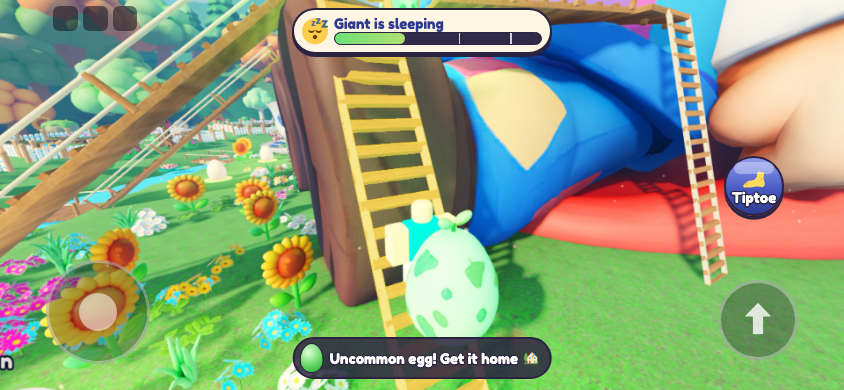
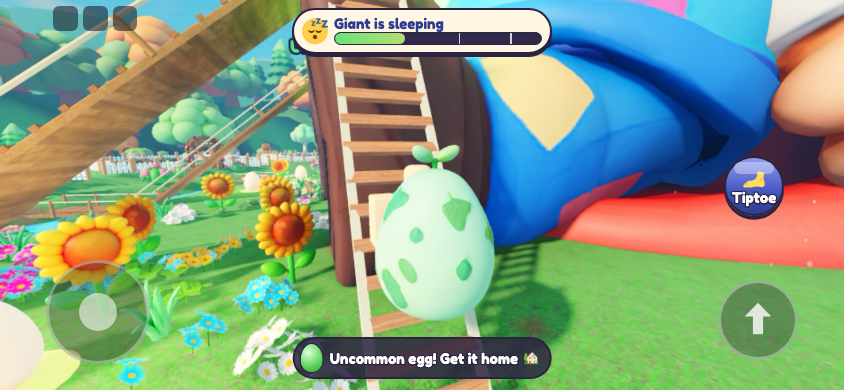
Drop ladder glow and flash from the looks
Adam dropped both; mockups retaken on the plain-wood ladder. Also records the designer's Task 4a look check.

diff --git a/docs/design/v2/mockups/wake-hud.html b/docs/design/v2/mockups/wake-hud.html
@@ -202,7 +202,7 @@ if (state === "bonk") { meter("AWAKE! Back to sleep in 0:07"); $("tip").classLis
 if (state === "garden") { meter("AWAKE! Back to sleep in 0:06"); }
 // bonked on a ladder with no egg: they hold on with the star ring. Nothing new on screen; the tip stays.
 if (state === "ladder") { meter("AWAKE! Back to sleep in 0:09"); $("tip").classList.remove("hide"); }
-// a carrier climbing down the left boot ladder with an Uncommon egg, a red circle below and the ladder glowing red
+// a carrier climbing down the left boot ladder with an Uncommon egg, a red circle below (no ladder glow: dropped 2026-11-04)
 if (state === "slam") {
   meter("AWAKE! Back to sleep in 0:12"); rh.classList.remove("hide"); $("carry").classList.remove("hide");
   document.querySelector("#carry .egg").style.background = "radial-gradient(circle at 35% 30%, #DFFFD8, #5BD45B 60%, #2E9E3A)";

diff --git a/docs/design/v2/mockups/wayup-hud.html b/docs/design/v2/mockups/wayup-hud.html
@@ -135,7 +135,7 @@ if (state === "climb") {
   $("ctext").textContent = "Uncommon egg! Get it home";
   document.querySelector("#carry .egg").style.background = "radial-gradient(circle at 35% 30%, #DFFFD8, #5BD45B 60%, #2E9E3A)";
 }
-// he is awake, a slam targets the climber: red circle below, the ladder glows red (V2 "Slam warning on a ladder")
+// he is awake, a slam targets the climber: red circle below (the red ladder flash was dropped 2026-11-04)
 if (state === "slam") {
   meter(100, "AWAKE! Back to sleep in 0:12", "😠");
   $("meter").style.background = "#FFE3E6"; $("mlabel").style.color = "#C4142A";

diff --git a/docs/design/v2/build-check.md b/docs/design/v2/build-check.md
@@ -452,3 +452,47 @@ The side ladders were dropped, so gardens 1 and 2 now use the left boot ladder. 
 | `mockups/wayup-gate2-desktop.png`, `mockups/wayup-gate2-phone.png` | Garden 2 at first spawn: the left boot ladder above the sock, its top half clear | Built world only | Easy (nothing new) | Ladder clearly on screen; the sock hides its foot |
 
 Not re-scored side by side: same cameras, world and light as the earlier `wayup-side` check (all 4s), with a smaller ladder than the side ladder had.
+
+## Ladder slam without the red flash (2026-11-04)
+
+Adam dropped the red ladder flash (and the yellow ladder glow before it). `view-ladder-slam.png`, `view-phone-ladder-slam.png`, `ladder-slam-desktop.png` and `ladder-slam-phone.png` were retaken from the same spot (avatar from `ArtLibrary.MockupAvatars.Mockup_LadderSlam`, feet about 20.5 studs up the left boot ladder, camera 12.5 studs behind the head, 20° down; Studio field of view widened so the HTML crop shows Roblox's 70°). The ladder is now the built `World.WalkSurfaces.BootLadder_Left` (plain wood), the circle the same `Mockup_LadderSlam.Circle`, the screen layer `wake-hud.html?state=slam`. Everything was hidden again afterwards.
+
+| Image | Shows | Art used | Difficulty | World | Light | Life | Buttons | Phone | Below the top games? |
+|---|---|---|---|---|---|---|---|---|---|
+| `mockups/ladder-slam-desktop.png`, `mockups/ladder-slam-phone.png` (backgrounds `view-ladder-slam.png`, `view-phone-ladder-slam.png`) | He is awake and a slam targets a carrier climbing down the left boot ladder with an Uncommon egg. Plain wooden ladder, the red circle on the grass below, red meter, "RUN HOME!", red edges, the tip "Dodge the red circles!" | Real world, plain avatar, the Uncommon egg, the built ladder, the game's circle | Easy (nothing new) | 4 | 4 | 4 | 4 | 4 | No on the scores. **Weak spot:** from the ladder the circle shows only as a red-and-gold sliver at the bottom edge, partly under the tip; on the phone even less. A climber sees the slam coming only from the wake cues (red edges, meter, "RUN HOME!") and, once built, the whoosh from below (plan 7 Task 10). Spec 3 section 5's trigger covers it if climbers keep getting caught |
+
+Compared with the same three wake-up shots as before: `steal-animal-egg/shot-06.jpg`, `break-and-steal-an-egg/shot-06.jpg`, `doors/shot-06.jpg`.
+
+## Boot ladder and climb without the yellow glow (2026-11-04)
+
+The yellow ladder glow was dropped (Adam, 2026-11-03). `wayup-boot-*` and `climb-*` (and their `view-*` backgrounds) were retaken in edit mode on the built plain-wood `World.WalkSurfaces.BootLadder_Left`. The side ladders are gone from the world, so they no longer show. `wayup-boot`: avatar on garden 3's `SpawnSpot`, facing his face, camera 12.5 studs behind the head, 15° down, with the rank-glow eggs of `Mockup_EggRanks`. `climb`: avatar halfway down the ladder (root part at (−45.1, 12, −64)) with the Uncommon egg, camera at (−56, 15, −68) looking at (−43, 12.5, −63). Screen layer `wayup-hud.html` (`state=boot`, `state=climb`). Everything was hidden again afterwards.
+
+| Image | Shows | Art used | Difficulty | World | Light | Life | Buttons | Phone | Below the top games? |
+|---|---|---|---|---|---|---|---|---|---|
+| `mockups/wayup-boot-desktop.png`, `mockups/wayup-boot-phone.png` | Garden 3 after the spawn camera eases back: the plain-wood boot ladder up the left boot, the thigh plank, the Common eggs in the meadow, the rank glow on the boot and belly eggs | Real world, plain avatar, egg models | Easy | 4 | 4 | 4 | 4 | 4 | No. The ladder is less bright than the yellow one was, but it stands out against the dark boot. Weak spot: the two near Common eggs' words touch ("Common Common"), as V1's labels would from this spot |
+| `mockups/climb-desktop.png`, `mockups/climb-phone.png` | Climbing down the left boot ladder with the Uncommon egg on the back; carry pill "Uncommon egg! Get it home" | Same, plus the Uncommon egg | Easy | 4 | 4 | 4 | 4 | 4 | Life: 4. The egg covers most of the avatar, as before |
+
+Compared with `adopt-me/shot-01.jpg`, `ride-a-pet/shot-03.jpg` and `steal-an-egg/shot-08.jpg`, as in the first ways-up check.
+
+
+
+## Task 4a (judged 2026-11-04)
+
+Look check for plan 3 Task 4a, the two boot ladders (commit ec95c9b, 2026-11-03). Before shots `work/t4a/look-before/`, after shots `work/t4a/look-after/`, taken minutes apart on 2026-11-03 from the fixed cameras in `look-cameras.md`. The wide mockup ramps (`Mockup_WaysUp`) stand in both sets and are not judged here. Framing note: the after computer shots came out narrower (1488x1080 against 1879x1080), so their left and right edges are cut; same cameras, nothing in the world differs because of it.
+
+| Pair | Verdict | What I see |
+|---|---|---|
+| meadow-wide, computer | Same | Two thin plain-wood ladders on the outer sides of the boots, small next to the ramps; same wood and rope as the ramps, nothing clashes |
+| meadow-wide, phone | Same | Same two thin ladders, barely visible at phone size; the giant and his face read as before |
+| meadow-front, computer | Same | Ladders sit on the outer boot sides beside each ramp, symmetric, read as part of the same wood set |
+| meadow-front, phone | Same | Thin lines beside the ramps; nothing covers the giant, the eggs area or the centre |
+| gate-3, computer | Better | A clear ladder now runs up the near boot beside the belly: from garden 3's gate the way up is readable at once |
+| gate-3, phone | Better | Same ladder, still readable at phone size against the dark boot |
+| gate-6, computer | Better | A ladder now stands on the near boot's front, in the middle of the view; garden 6 sees its own way up |
+| gate-6, phone | Better | Same ladder, clearly visible next to the teacup |
+
+Climb shot (`look-after/climb-left-boot-top-player-camera.jpg`, Play, player camera): the avatar stands on the flat boot top with the ladder's top rungs and rail beside him, not inside the boot; the meter, Tiptoe button and tip stay clear of him. The carried Uncommon egg sits close behind the head, as in the earlier climb mockups.
+
+Verdict: no pair worse; 4 same, 4 better. Approve.
+
+Viral test: yes. The ladders are plain wood that matches the world and gives gardens 3 and 6 a way up that shows from spawn, so nothing here would make a kid pick the game next door instead.

diff --git a/docs/design/v2/style-guide/ways-up.md b/docs/design/v2/style-guide/ways-up.md
@@ -18,9 +18,7 @@ One look for "this is a way up": wood. Rope ladders and plank bridges are the sa
 | **Rare egg 1** | Stays at its V1 spot, at the top of the shared path's first stretch: (−12.5, 41.3, −40.3) | Unchanged V1 egg, leaning with the belly. From both lap planks it sits just past the landing, at the top of the trail, and its "Rare" label stays clear of the meter on the computer and the phone |
 | **Old left belly path (removed)** | V1's belly path from the left boot top: its lowest 6 invisible pieces, from (−20.6, 28.8, −51.3) to (−14.1, 36.1, −42.4), and its 3 footprint route points (Belly 1 to 3) | Nothing visible goes away, because these pieces were invisible. The footprint trail from the left boot now runs over the left lap plank instead. His own skin between the boot top and the belly is gentle in places (11–64°, with steeper bands of 71–75°), on both sides. If that skin still lets players walk straight up, it is closed with invisible guards like V1's steep guards, never with a visible fence: on his body, wood means "walk here", and nothing else is put there |
 
-**Footprints on a ladder.** The trail runs to the ladder's foot. While the player's trail goes up or down a ladder, that whole ladder glows softly in the footprint yellow `#FFD43B`, only on that player's screen. The trail starts again on the top pad.
-- Built with one Roblox `Highlight` on the ladder: fill `#FFD43B` at 55% see-through, outline `#FFD43B` at 35% see-through, depth mode "Occluded" (so it never shows through his body). Only one ladder glows at a time.
-- Tested in Studio: from garden 1 the glowing side ladder is the brightest thing on his side of the screen. The plain ladder next to it stays cream, so players see which one is theirs.
+**Footprints on a ladder.** The trail comes in straight at the rungs and stops on the grass 2 to 4 studs in front of the bottom rung, so a player who follows it ends facing the ladder and climbs by pressing forward (spec 3, Rule 42 and section 5 "Trail end at a ladder"). No footprints lie on the ladder, and the ladder never changes colour: the yellow ladder glow was dropped (Adam, 2026-11-03). The trail starts again on the top pad.
 
 **The plank and the fork, checked in Studio 2026-10-18** (`mockups/view-lapfork-own.png`, `view-lapfork-cross.png`, their phone versions, and `test-lap-build.png`; built in `Workspace.Mockup_Nests.LapBuild_Designer`):
 - **The plank still reads as a bridge:** deck, cleats, posts and both rope rails show from the plank, from the landing and from the gardens. Landing and apron read as one wide deck in the middle, with a plank on each side.
@@ -32,9 +30,3 @@ One look for "this is a way up": wood. Rope ladders and plank bridges are the sa
 **Spawn view.** After the camera eases back (Rule 1), each garden's way up is on screen on the computer and the phone (`mockups/wayup-*`). In the very first frame (the tilt up to his face), the avatar's body covers the boot ladder for garden 3 and the right boot ladder for garden 6, and only its top shows above the shoulder. It shows in full at the first step.
 
 **Landing spots.** Landing spots 5 (−48, −64) and 7 (46, −64) sit under the boot ladders' feet, 1–3 studs away. Rule 43 needs 10 studs. Move them out to about (±62, −64).
-
-**Slam warning on a ladder.** The red circle lies on the first walkable surface straight below the player (meadow grass, a bridge, a ramp or plank, a boot top, a side pad, the lap landing or his body), following that surface's shape, never on the rungs and never standing upright. A climber faces the rungs, so the circle is out of view. In the mockup, from 22 studs up, only a sliver shows, and the carry pill covers it. So for the 1.5-second warning **the whole ladder also glows red** (`mockups/ladder-slam-*`). This is for any target on a ladder, with or without an egg.
-- It uses the same `Highlight` as the trail glow, set to the circle's red `#E0233A`: fill 15% see-through, outline solid, depth mode "Occluded".
-- Tested in Studio (edit mode): the trail glow's settings in wake red (`#FF3B4E`, 55% see-through) read salmon pink on the cream rungs. The circle's red at 15% see-through reads clearly red, the same red as the circle.
-- Everyone nearby sees it, like the circle. While it shows, it replaces that ladder's yellow trail glow. When the hand lifts away, it goes back to how it was.
-- Not checked in Play (Rule 13: Hand slams hunt everyone outside a garden).

diff --git a/docs/design/v2/style-guide/wake-up.md b/docs/design/v2/style-guide/wake-up.md
@@ -58,7 +58,7 @@ Checked on a 4.7-inch phone (667 × 375, no safe edge), in every state, with the
 | Star ring | **4 cartoon gold stars** circling above their head for the whole 1.0 s: a `BillboardGui` 5.5 × 2.6 studs, 2.4 studs above the head (`StudsOffset`, so it stays above the head as they fall), `LightInfluence` 0, holding 4 `TextLabel`s with the ⭐ picture (Roblox draws it as a gold cartoon star). The stars circle once every 0.8 s; with Reduce Motion on they stand still | Tested in Studio: Roblox's built-in sparkle texture, even at 2.6 studs and gold, read as small flashes, not stars, from the player's own camera. The ⭐ picture reads as "dizzy" straight away |
 | Puff | A small cream puff on the body at the hit: smoke texture, `#FFF6E4`, 5 puffs, size 1.5 → 4 studs, 30% see-through fading out, lifetime 0.5–0.7 s | A soft "bonk", not the big white caught puff |
 | On a ladder | No tumble: they keep holding on, with the same star ring, and can't climb for 1.0 s. The star ring keeps its normal height (2.4 studs over the head) | Rule 61. Checked halfway up the left boot ladder (`wake-bonk-ladder-*`): the stars sit in front of the boot, well below the meter (about 120 px clear on the computer, 50 px on the phone), and the boot rim doesn't hide them. No lower height is needed |
-| **The fist on your own screen** | For a player the fist hits (anyone inside its circle, on the ground or on a ladder), their own copy of the fist is drawn **90% see-through** from the moment it lands until it has lifted clear above their head. Everyone else sees it solid. The fall stays solid | The fist is about 29 studs tall and lands on the surface under the circle. Tested in Studio halfway up the left boot ladder: with the solid fist, the player's camera sat against its knuckles and the whole screen was white and blue fist (`mockups/test-bonk-ladder-solid-fist.png`). It would look broken. At 65% and 80% see-through the world showed through a milky haze. At 90% the player, the red ladder, the stars and the circle read clearly, with a faint glassy edge of the fist. The fist is made by each player's own game, so this needs no new art |
+| **The fist on your own screen** | For a player the fist hits (anyone inside its circle, on the ground or on a ladder), their own copy of the fist is drawn **90% see-through** from the moment it lands until it has lifted clear above their head. Everyone else sees it solid. The fall stays solid | The fist is about 29 studs tall and lands on the surface under the circle. Tested in Studio halfway up the left boot ladder: with the solid fist, the player's camera sat against its knuckles and the whole screen was white and blue fist (`mockups/test-bonk-ladder-solid-fist.png`). It would look broken. At 65% and 80% see-through the world showed through a milky haze. At 90% the player, the ladder, the stars and the circle read clearly, with a faint glassy edge of the fist. The fist is made by each player's own game, so this needs no new art |
 | On screen | Nothing new: no card, no text. The bottom tip stays | Spec section 6 |
 
 ## The world reacts to a slam (Rule 69: The world reacts)

diff --git a/docs/design/v2/style-guide.md b/docs/design/v2/style-guide.md
@@ -11,7 +11,7 @@ This file is the index. The guide is split into one file per spec, in `docs/desi
 | 1: New-player safety | [`style-guide/warning-85.md`](style-guide/warning-85.md) | The 85% warning without the arm twitch: the snort, the moved bubble, their tested values, the eyelids |
 | 1: New-player safety | [`style-guide/egg-ranks.md`](style-guide/egg-ranks.md), "Your own carried egg never hides you" | The carried egg fading for its carrier |
 | 2: Stuck safety | [`style-guide/rescue-puff.md`](style-guide/rescue-puff.md) | The rescue puff |
-| 3: Gardens and ways up | [`style-guide/ways-up.md`](style-guide/ways-up.md) | Ladders, planks, the lap landing, ramps, footprints on a ladder, the fork, the slam warning on a ladder |
+| 3: Gardens and ways up | [`style-guide/ways-up.md`](style-guide/ways-up.md) | Ladders, planks, the lap landing, ramps, footprints on a ladder, the fork |
 | 4: Egg reachability | [`style-guide/egg-ranks.md`](style-guide/egg-ranks.md) | Rank colours and placement, the rank glow, beams |
 | 5: Egg nests and the seam | [`style-guide/nests-map.md`](style-guide/nests-map.md) | How to read the map, the seam, the 38 nests |
 | 5: Egg nests and the seam | [`style-guide/nests-pockets.md`](style-guide/nests-pockets.md) | The Epic cuff pockets, the Rare belly pockets, the lap fold and knee pocket |
@@ -34,7 +34,7 @@ Other documents point to sections by name, for example `style-guide.md`, "The wa
 | Section or named part | File |
 |---|---|
 | The rescue puff | `style-guide/rescue-puff.md` |
-| Ways up; Footprints on a ladder; The plank and the fork; Spawn view; Landing spots; Slam warning on a ladder | `style-guide/ways-up.md` |
+| Ways up; Footprints on a ladder; The plank and the fork; Spawn view; Landing spots | `style-guide/ways-up.md` |
 | Egg ranks; Egg ranks: values checked in the mockups (2026-10-14); The rank glow; Beams from eggs on his body; Beams on his body hide up close; Your own carried egg never hides you; Tried second and dropped (the stronger beam) | `style-guide/egg-ranks.md` |
 | The wake-up; His face wakes; The screen while he hunts; Red edges; "RUN HOME!"; Egg words near "RUN HOME!"; Wake banner; The bonk; The fist on your own screen; The world reacts to a slam; Flower shake | `style-guide/wake-up.md` |
 | The 85% warning without the arm twitch (changes V1); The 85% warning: tested values (2026-10-19); The bubble; The snort; Bubble limits; Can anyone stand on his eyelids? | `style-guide/warning-85.md` |

diff --git a/docs/design/v2/build-check-current.md b/docs/design/v2/build-check-current.md
@@ -37,10 +37,11 @@ Other documents point to `build-check.md` by section name. Every old section is 
 
 | Image | Latest row (history section) |
 |---|---|
-| `wayup-boot-*` | "Egg ranks retake: the rank glow" (retaken with the glow). All 4s |
+| `wayup-boot-*` | "Boot ladder and climb without the yellow glow" (2026-11-04). All 4s |
 | `wayup-gate1-*`, `wayup-gate2-*` | "Boot ladder from gardens 1 and 2" (2026-11-03). They replace `wayup-side-*`. Not re-scored side by side |
 | `wayup-plank-*`, `ladder-top-*`, `plank-*` | "Studio session 2026-10-19 (fifth)" (retaken on the moved build) |
-| `climb-*`, `ladder-slam-*` | First table (2026-10-14). All 4s |
+| `climb-*` | "Boot ladder and climb without the yellow glow" (2026-11-04). All 4s |
+| `ladder-slam-*` | "Ladder slam without the red flash" (2026-11-04). All 4s; the circle shows only as a sliver from the ladder |
 | `view-lapfork-own`, `view-lapfork-cross`, `view-lapfold` (and phone) | "Studio session 2026-10-18 (second)". All 4s, no Buttons score |
 | `wayup-side-*` | Replaced by `wayup-gate1/2`; its old row stays in the history's first table |
 

diff --git a/.claude/agent-memory/designer/mockups.md b/.claude/agent-memory/designer/mockups.md
@@ -1,3 +1,4 @@
 # Mockups
 
 - A mockup's first call makes its folder and loads each generated model by its asset id into that folder. Never search the world by name for a model: a search for "tuft" grabbed the live meadow grass. Never move or change anything a world search finds.
+- To retake an old shot, its avatar sits hidden in `ServerStorage.ArtLibrary.MockupAvatars.<folder>` and mockup parts are stored at Transparency 1: save each part's value in an attribute, show, shoot, put back. Use `Mockup_WakeUp.CamHelper.fov(device)` for the field of view, since the Studio window size changes.

diff --git a/.claude/agent-memory/designer/MEMORY.md b/.claude/agent-memory/designer/MEMORY.md
@@ -1,5 +1,5 @@
 # designer memory
 
-- [Mockups](mockups.md) - load generated models by asset id
+- [Mockups](mockups.md) - load generated models by asset id; retaking old shots (hidden avatars, fov helper)
 - [Props](props.md) - name props by art-list entry and asset id
 - [Design docs layout](design-docs-layout.md) - V2 style guide = index + one file per spec; build check current vs history
